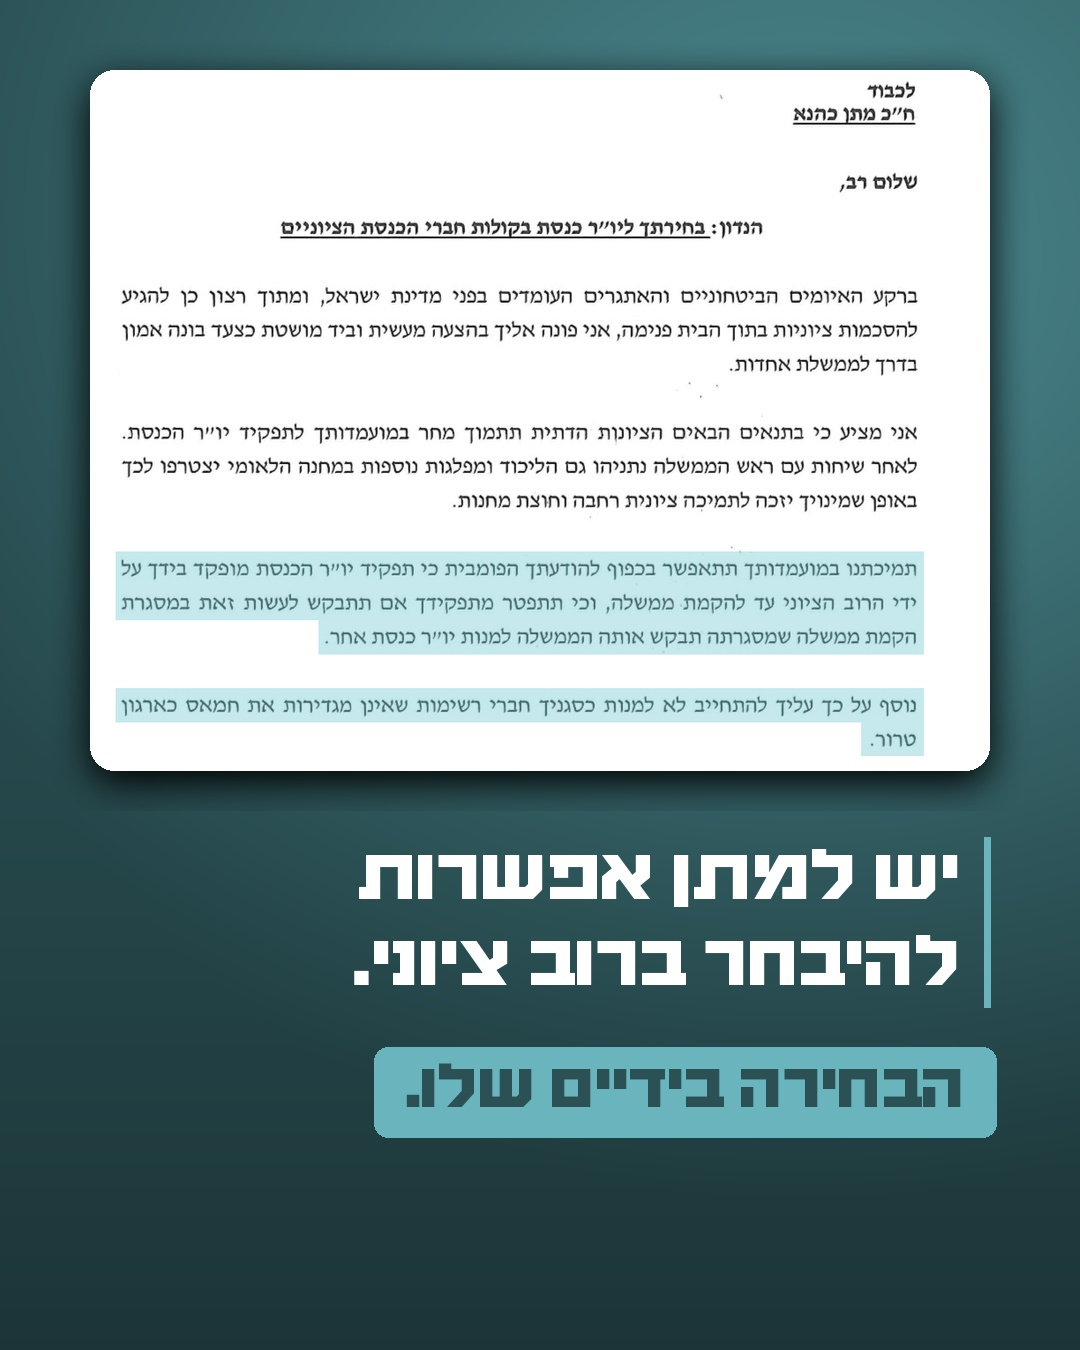
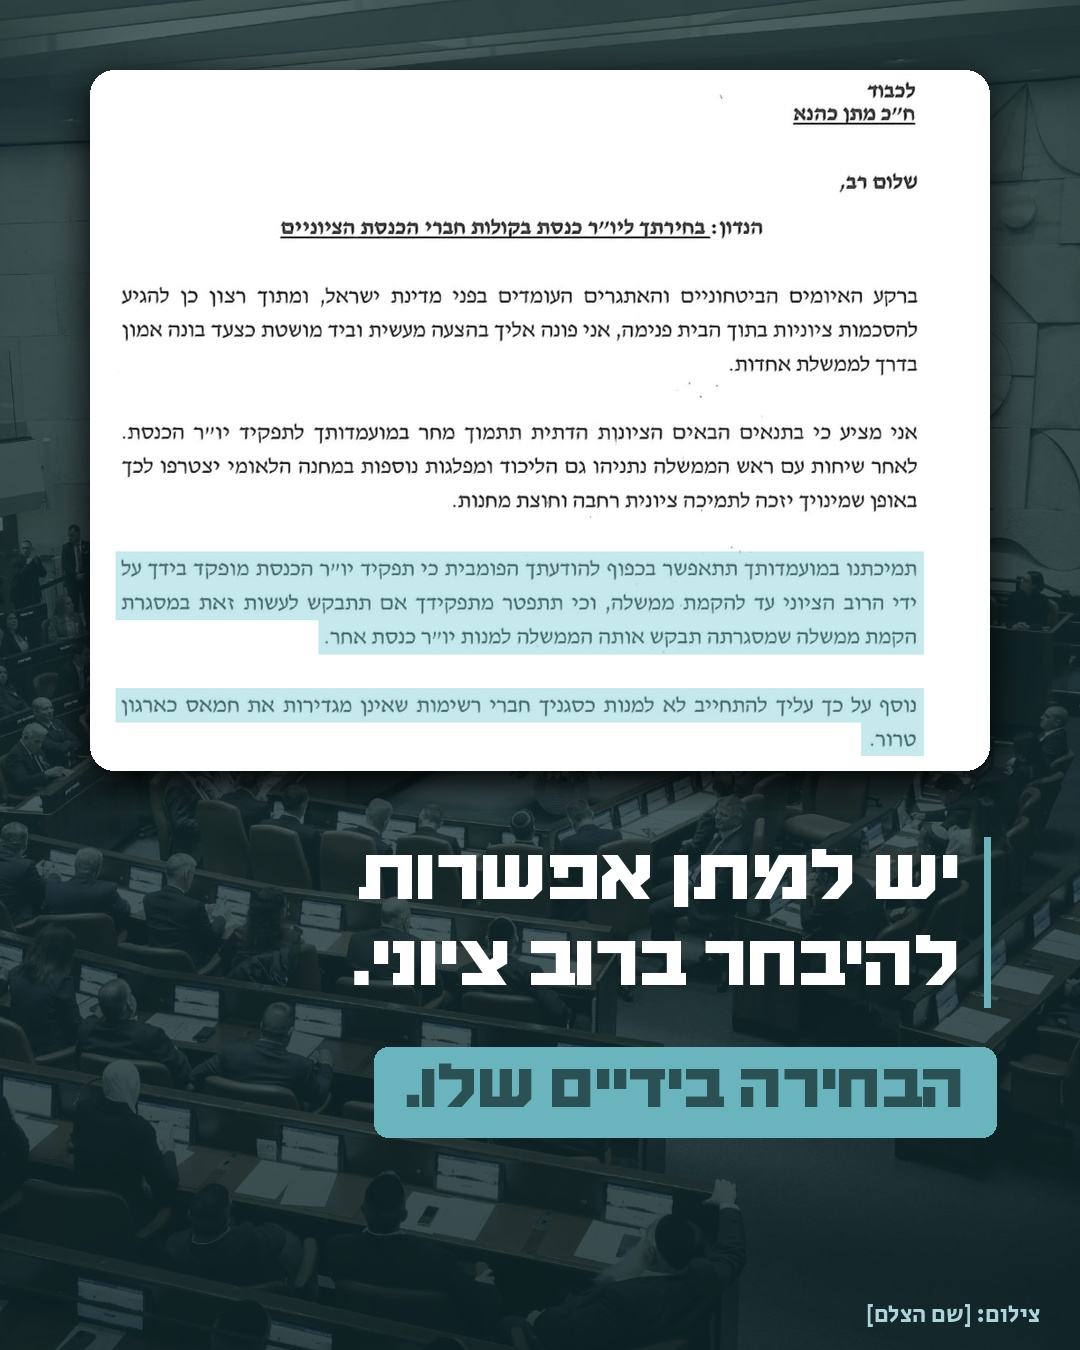
RZ Kahana letter: dimmed Knesset photo background + credit slot
Claude-Session: https://claude.ai/code/session_01RS3QK6pAd3YhyAuXZSJjH1

Changed region(s): [[0.0, 0.0, 1.0, 0.9644], [0.7944, 0.9644, 0.9472, 0.9956], [0.4583, 0.9333, 0.5194, 0.9956]]

diff --git a/content-kit/hatzionut-hadatit/2026-11-post-kahana-letter/make.py b/content-kit/hatzionut-hadatit/2026-11-post-kahana-letter/make.py
@@ -5,12 +5,8 @@ HERE = os.path.dirname(os.path.abspath(__file__))
 KB = HERE + '/../../fonts/HaimClassicv2FM-Bold.ttf'
 W, H = 1080, 1350; DEEP, TEAL, LT, PALE = (43, 81, 85), (80, 146, 153), (105, 180, 189), (173, 213, 217)
 def F(p, s): return ImageFont.truetype(p, s, layout_engine=ImageFont.Layout.RAQM)
-bg = Image.new('RGB', (W, H), DEEP); px = bg.load()
-for y in range(H):
-    for x in range(W):
-        g = max(0, 1 - math.hypot((x - 800) / 900, (y - 300) / 900)); v = 1 - .35 * (y / H) ** 2
-        px[x, y] = tuple(int((DEEP[i] + (TEAL[i] - DEEP[i]) * g * .9) * v) for i in range(3))
-im = bg.convert('RGBA'); d = ImageDraw.Draw(im)
+import sys; sys.path.insert(0, HERE); from bg import make_bg, credit
+im = make_bg(W, H); d = ImageDraw.Draw(im)
 src = Image.open(HERE + '/source-letter.jpg').convert('RGB')
 hl = Image.new('RGBA', src.size, (0, 0, 0, 0)); hd = ImageDraw.Draw(hl)
 for x0, yc in [(185, 875), (185, 914), (415, 953), (185, 1030), (1030, 1068)]:      # the two conditions
@@ -28,4 +24,4 @@ for i, l in enumerate(['יש למתן אפשרות', 'להיבחר ברוב צי
     d.text((R - 30, y + 8 + i * 86), l, font=fk, fill=(255, 255, 255), anchor='ra', direction='rtl')
 y2 = y + 2 * 86 + 48; f2 = F(KB, 64); t = 'הבחירה בידיים שלו.'; tw = d.textlength(t, font=f2, direction='rtl')
 d.rounded_rectangle((R - tw - 56, y2 - 4, R + 6, y2 + 86), 14, fill=LT); d.text((R - 26, y2 + 4), t, font=f2, fill=DEEP, anchor='ra', direction='rtl')
-im.convert('RGB').save(HERE + '/post.jpg', quality=95); print(y2 + 86)
+credit(im); im.convert('RGB').save(HERE + '/post.jpg', quality=95); print(y2 + 86)

diff --git a/content-kit/hatzionut-hadatit/2026-11-post-kahana-letter/make_slide2.py b/content-kit/hatzionut-hadatit/2026-11-post-kahana-letter/make_slide2.py
@@ -3,15 +3,11 @@ import os, math
 from PIL import Image, ImageDraw, ImageFilter
 HERE = os.path.dirname(os.path.abspath(__file__))
 W, H = 1080, 1350; DEEP, TEAL = (43, 81, 85), (80, 146, 153)
-bg = Image.new('RGB', (W, H), DEEP); px = bg.load()
-for y in range(H):
-    for x in range(W):
-        g = max(0, 1 - math.hypot((x - 800) / 900, (y - 300) / 900)); v = 1 - .35 * (y / H) ** 2
-        px[x, y] = tuple(int((DEEP[i] + (TEAL[i] - DEEP[i]) * g * .9) * v) for i in range(3))
-im = bg.convert('RGBA')
+import sys; sys.path.insert(0, HERE); from bg import make_bg, credit
+im = make_bg(W, H)
 src = Image.open(HERE + '/source-letter.jpg').convert('RGB').crop((8, 0, 1312, 1814))
 ch = H - 90; card = src.resize((int(ch * src.width / src.height), ch), Image.LANCZOS)
 m = Image.new('L', card.size, 0); ImageDraw.Draw(m).rounded_rectangle((0, 0, card.width - 1, card.height - 1), 20, fill=255)
 sh = Image.new('L', (card.width + 80, card.height + 80), 0); sh.paste(m, (40, 52)); sh = sh.filter(ImageFilter.GaussianBlur(18))
 X0, TOP = (W - card.width) // 2, 45; im.paste((0, 0, 0, 120), (X0 - 40, TOP - 40), sh); im.paste(card, (X0, TOP), m)
-im.convert('RGB').save(HERE + '/slide2-letter.jpg', quality=95); print(card.size)
+credit(im); im.convert('RGB').save(HERE + '/slide2-letter.jpg', quality=95); print(card.size)

diff --git a/content-kit/hatzionut-hadatit/2026-11-post-kahana-letter/bg.py b/content-kit/hatzionut-hadatit/2026-11-post-kahana-letter/bg.py
@@ -1,0 +1,17 @@
+"""Dimmed, teal-tinted Knesset plenum photo background (4:5) + photo credit."""
+import os
+from PIL import Image, ImageDraw, ImageFont, ImageEnhance
+HERE = os.path.dirname(os.path.abspath(__file__))
+SEC = '/tmp/claude-0/-home-user-The-tur/1a5819ee-0cc0-5045-b086-4a8a80216453/scratchpad/shalev/fonts/SecularOne.ttf'
+CREDIT = 'צילום: [שם הצלם]'
+def make_bg(W=1080, H=1350):
+    ph = Image.open(HERE + '/knesset-bg.jpg').convert('RGB'); s = H / ph.height
+    ph = ph.resize((int(ph.width * s), H), Image.LANCZOS); x0 = int((ph.width - W) * .62); ph = ph.crop((x0, 0, x0 + W, H))
+    ph = ImageEnhance.Color(ph).enhance(.35)
+    tint = Image.new('RGB', (W, H), (20, 48, 52)); im = Image.blend(ph, tint, .72)
+    g = Image.new('L', (1, H)); [g.putpixel((0, y), int(110 * (y / H) ** 1.6)) for y in range(H)]
+    im.paste((10, 28, 30), (0, 0), g.resize((W, H)))
+    return im.convert('RGBA')
+def credit(im):
+    d = ImageDraw.Draw(im); f = ImageFont.truetype(SEC, 24, layout_engine=ImageFont.Layout.RAQM)
+    d.text((im.width - 40, im.height - 28), CREDIT, font=f, fill=(173, 213, 217, 200), anchor='rs', direction='rtl')
